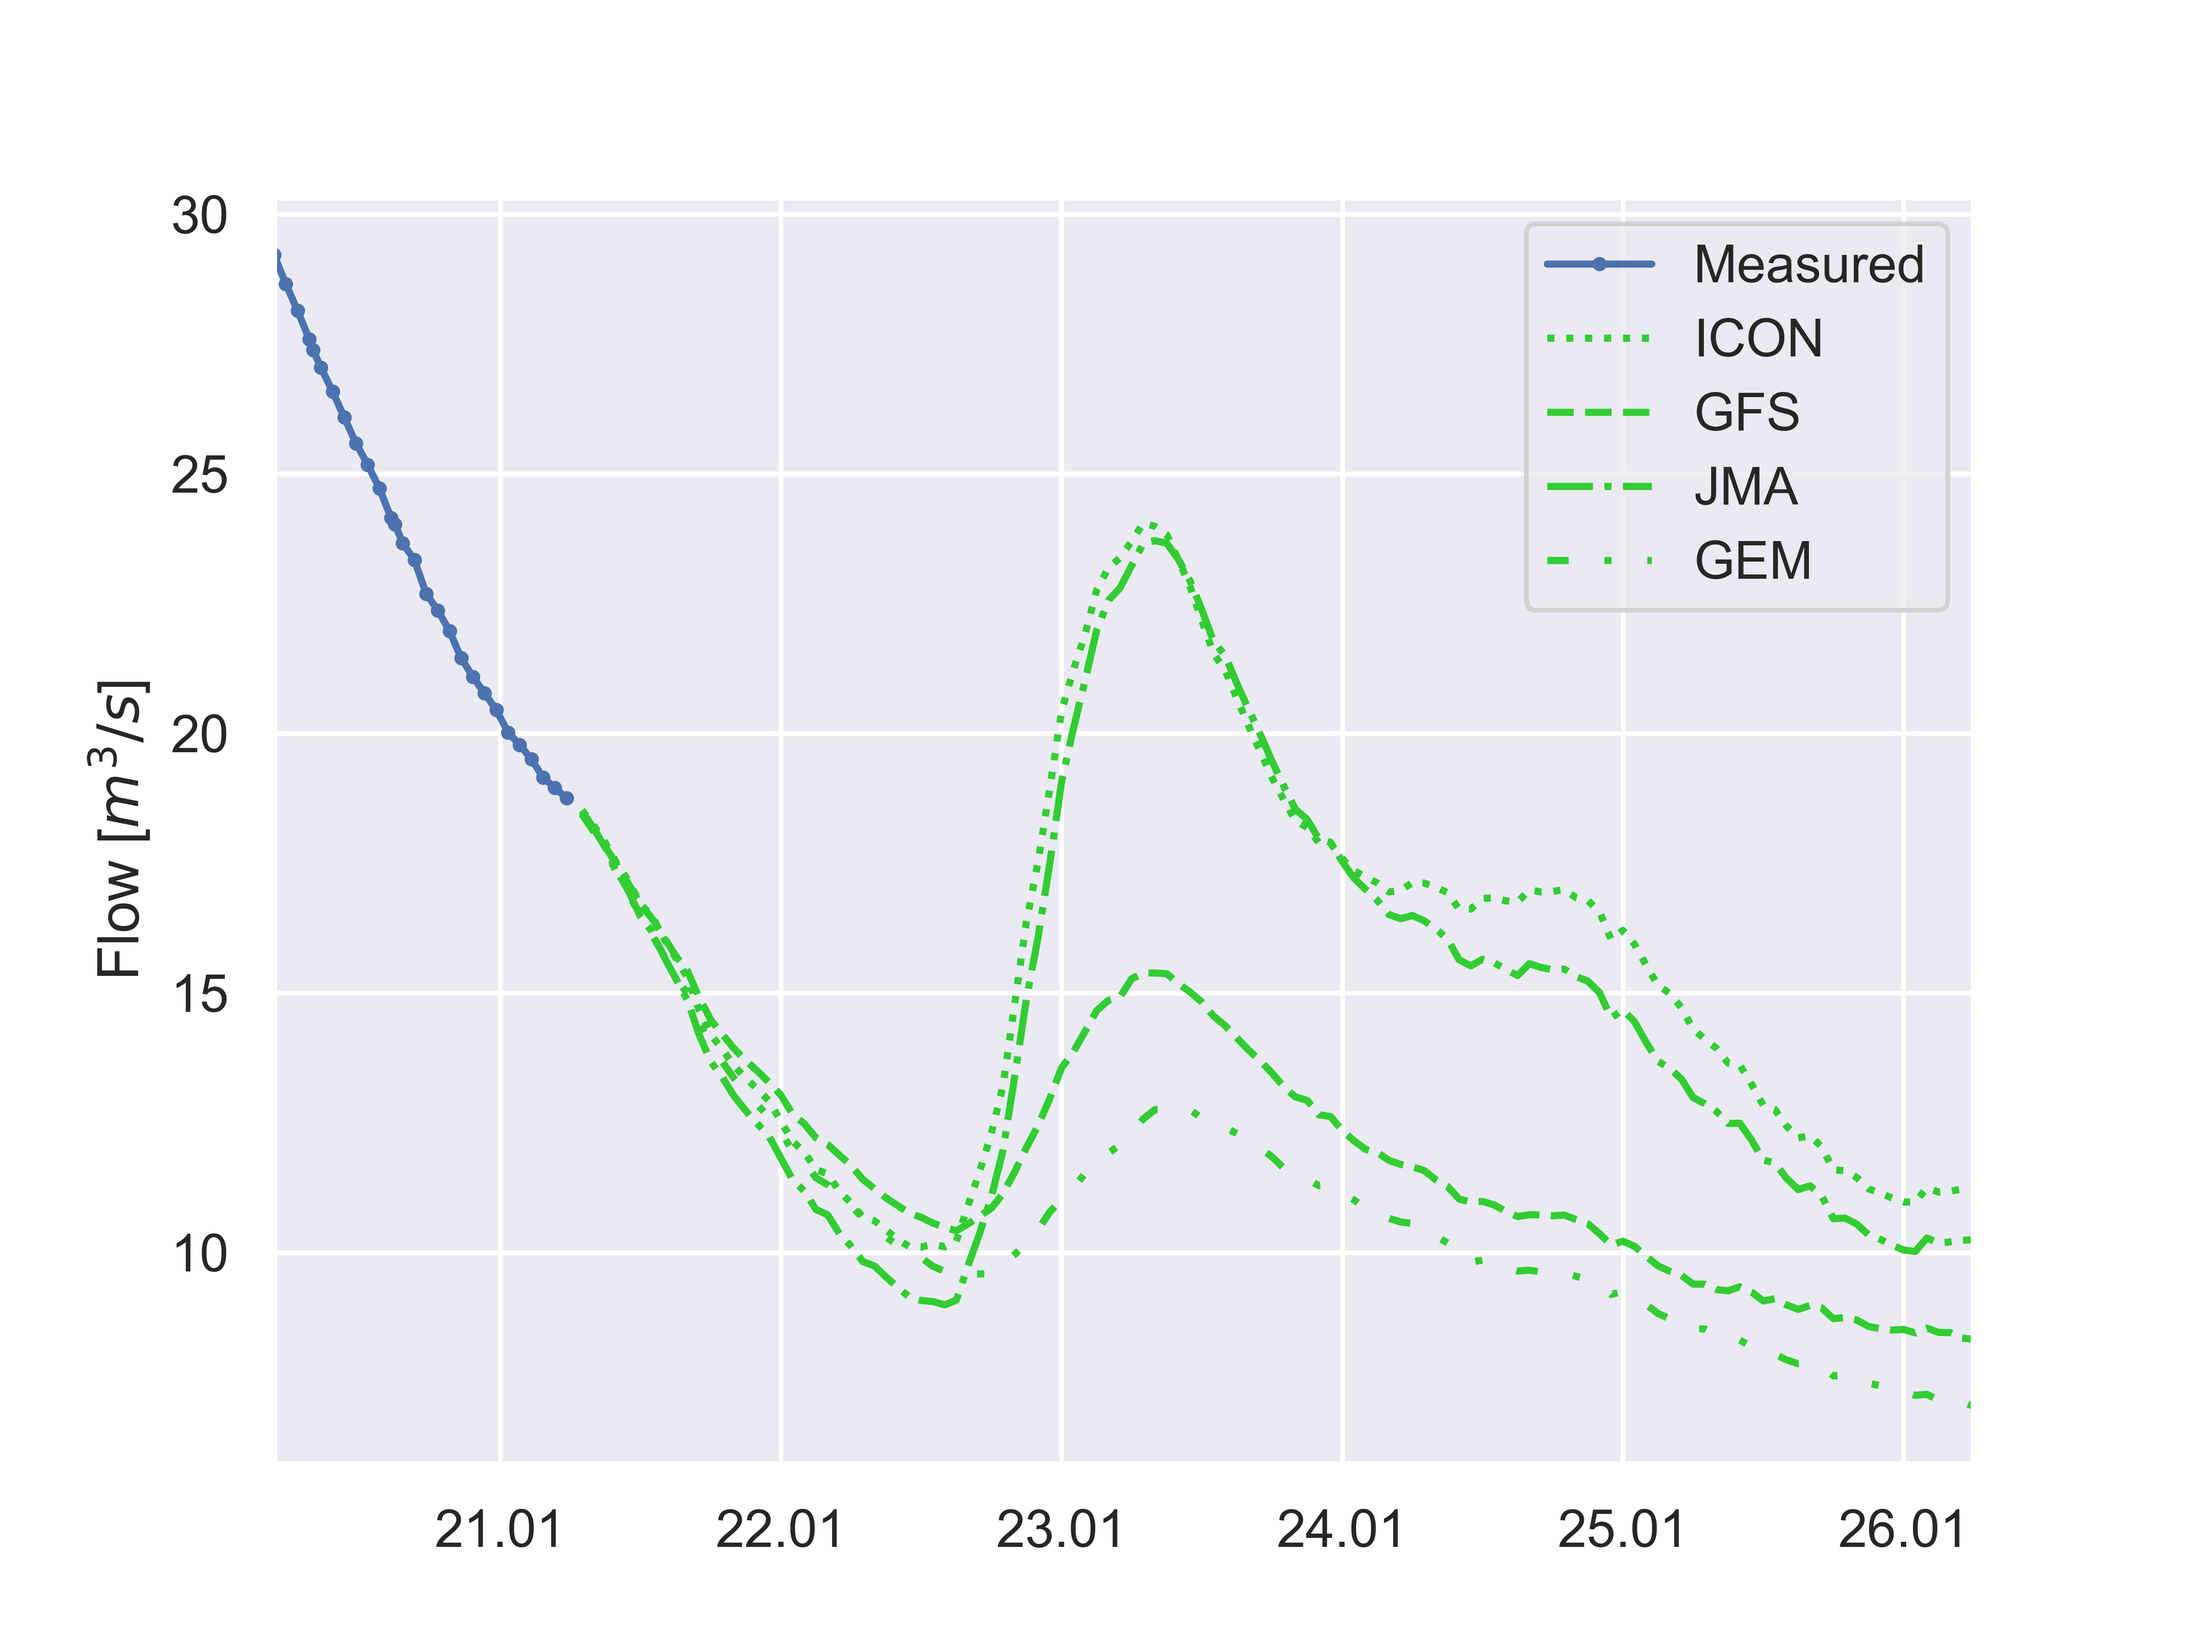
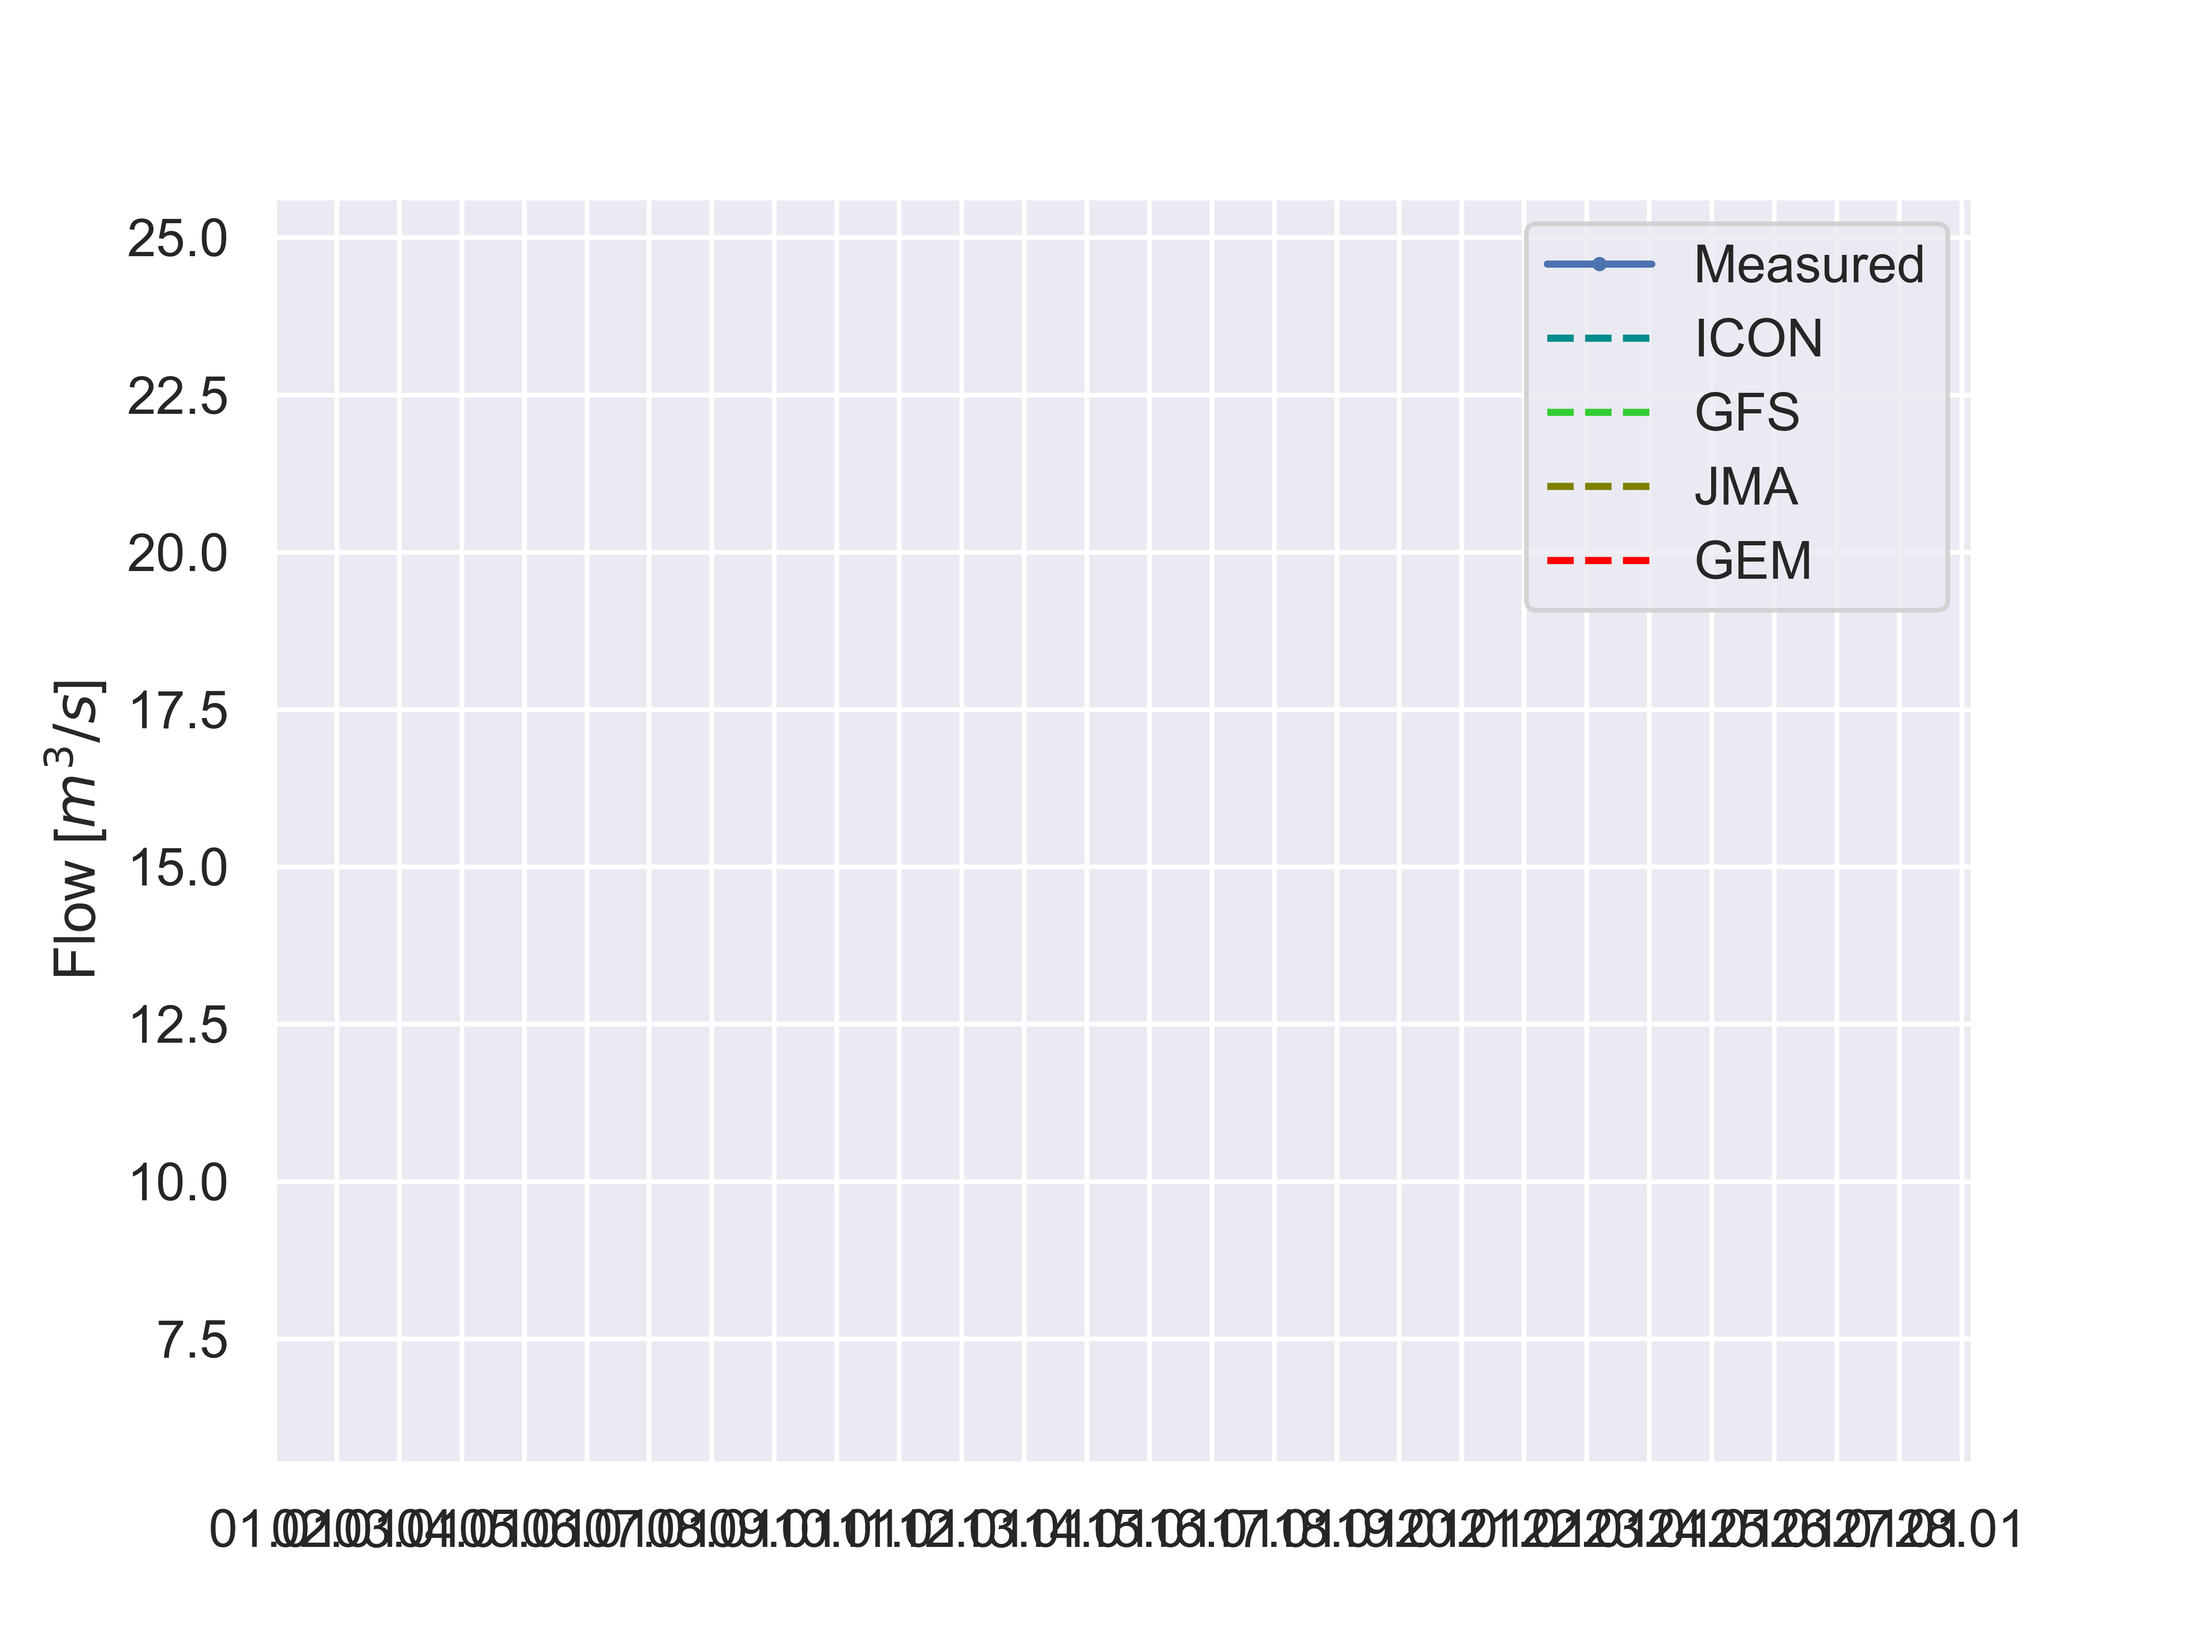
Farrbanpassung_Plots

diff --git a/Flow Forecast.py b/Flow Forecast.py
@@ -5,6 +5,7 @@ import matplotlib.dates as mdates
 import seaborn as sns
 import pytz
 import json
+import numpy as np
 from azure.cosmos import CosmosClient
 from datetime import datetime
 sns.set_theme()
@@ -46,7 +47,7 @@ def create_new_plot(station_id, img_path):
     measurements=river_data["Measurements"]
     measurements=dict_to_df(measurements)
     start, stopp=measurements.index.min(),measurements.index.max()
-
+    max_value=np.max(measurements)
     try:
         forecasts=river_data["Prediction"]
     except:
@@ -62,18 +63,21 @@ def create_new_plot(station_id, img_path):
 
 
     st.subheader(choosen_river)
+    colors=["darkcyan", "limegreen", "olive", "red"]
     linestyles = ['dotted', 'dashed','dashdot', (0, (3, 5, 1, 5, 1, 5)),(0, (3, 10, 1, 10, 1, 10)),(0, (5, 1))]
     num=0
     fig, ax = plt.subplots()
     ax.plot(measurements.index, measurements.values,marker='o',c="b", markersize=2.0, label="Measured")
     for weather_model in forecasts:
-        ax.plot(forecasts[weather_model].index, forecasts[weather_model].values, c="limegreen", label=weather_model.replace("_seamless", '').upper(),linestyle=linestyles[num])
+        ax.plot(forecasts[weather_model].index, forecasts[weather_model].values, c=colors[num], label=weather_model.replace("_seamless", '').upper(),linestyle='dashed')
         num=num+1
+        max_value=np.max([max_value,np.max(forecasts[weather_model])])
 
     ax.xaxis.set_major_locator(mdates.DayLocator())  # Ein Label pro Tag
     ax.xaxis.set_major_formatter(mdates.DateFormatter('%d.%m'))  # Formatierung ohne Jahr
     ax.legend()
     ax.set_xlim(start, stopp)
+    ax.set_ylim(0, np.max([10, 1.1*max_value]))
     ax.set_ylabel( "Flow [$m^3/s$]")
     plt.savefig(img_path, dpi=800)
     plt.close()

diff --git a/pages/Impressum.py b/pages/Impressum.py
@@ -6,4 +6,7 @@ st.set_page_config(
 #cwd = os.getcwd()
 # Streamlit App
 st.header('Impressum', divider='rainbow')
-st.text("Niels Jung \n Data Scientist \n jung_niels@web.de")
+st.text("Niels Jung")
+st.text("jung_niels@web.de")
+
+
